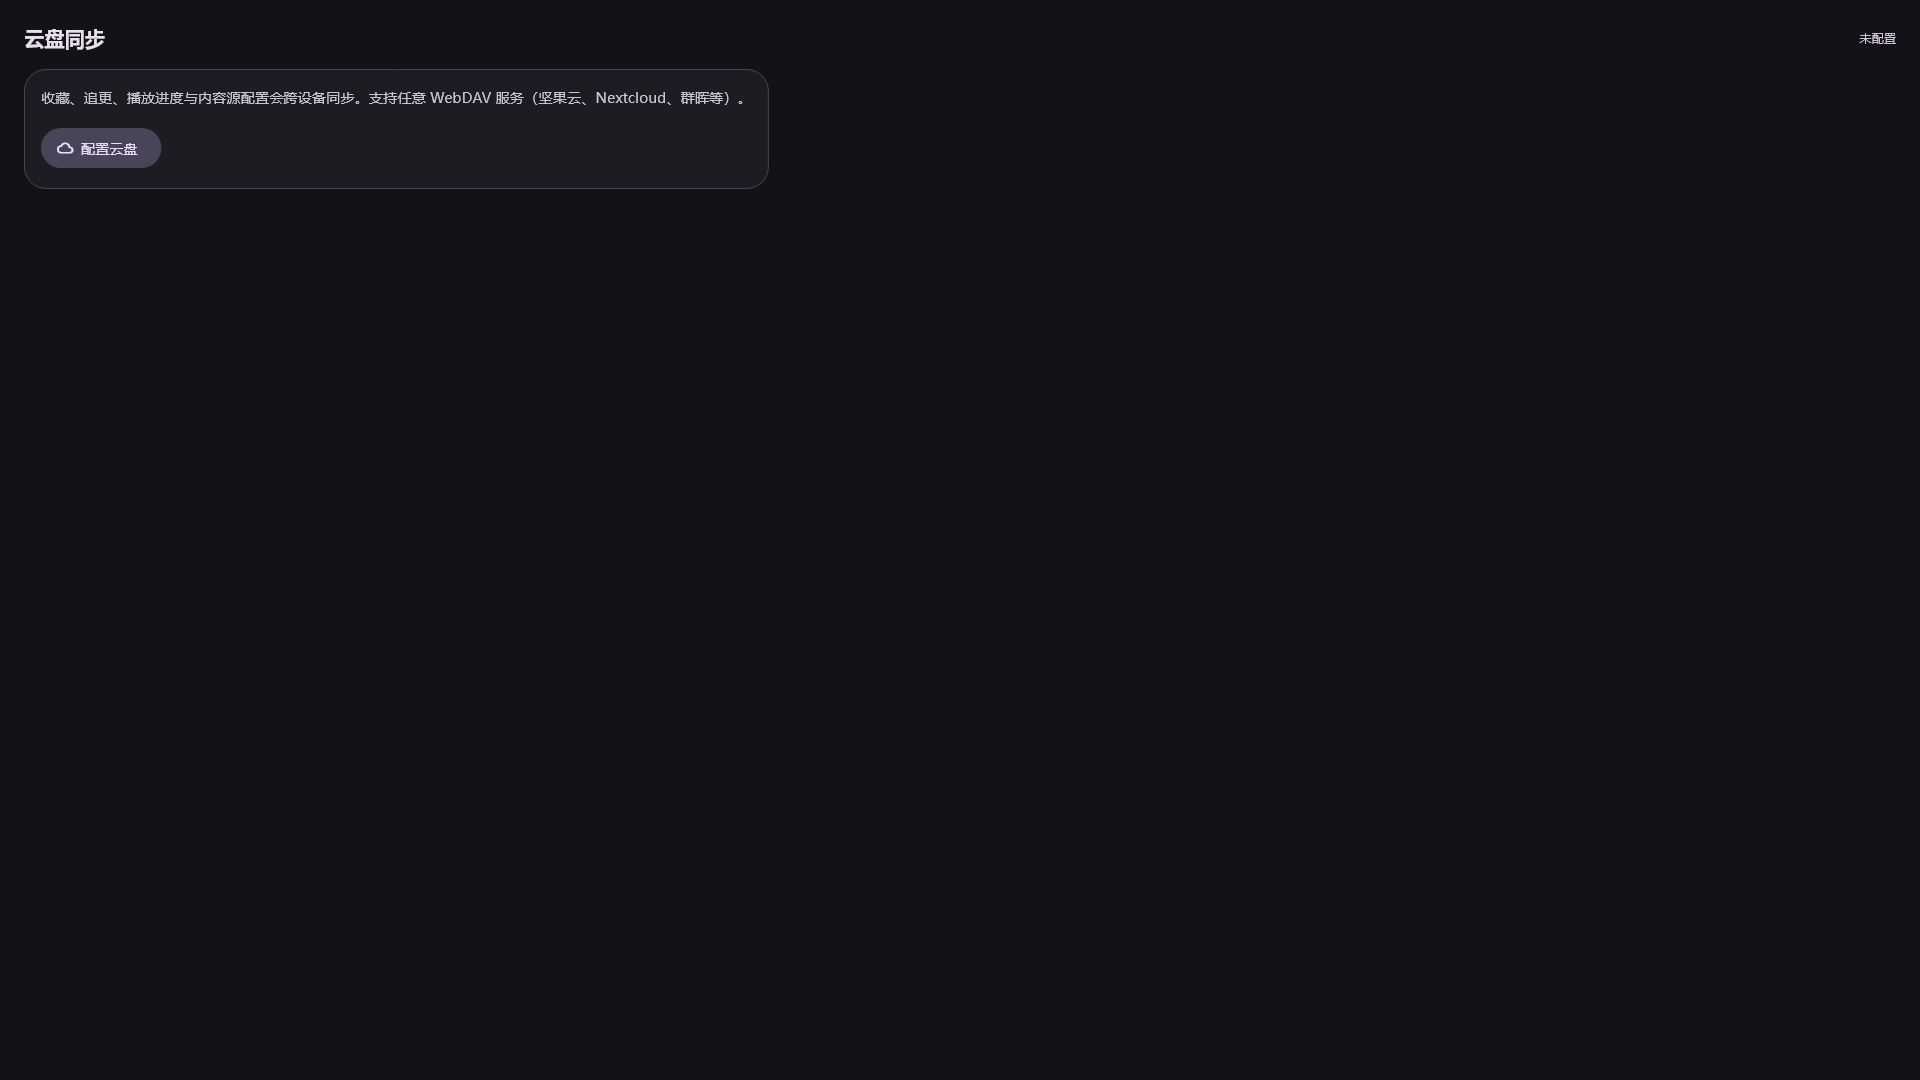
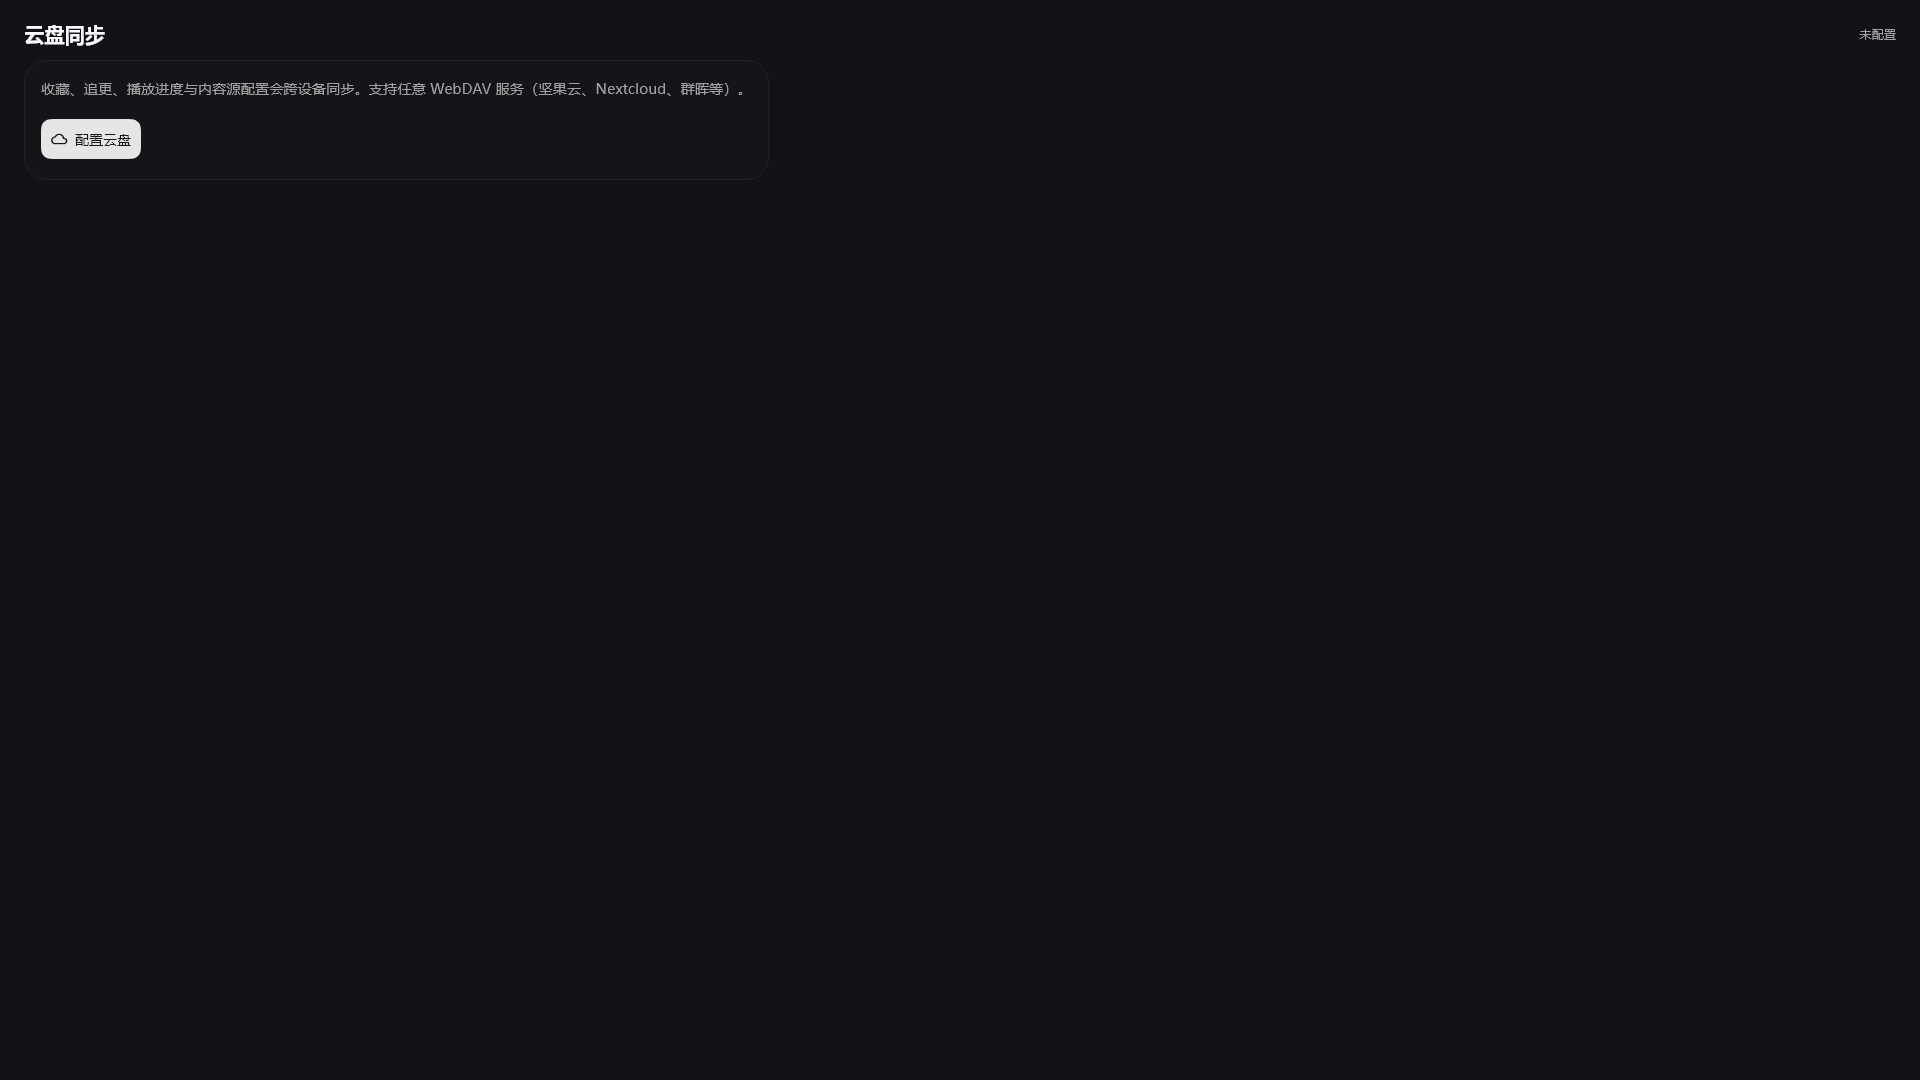
测试：截图改用生产主题 AppTheme.themeFor（原先自造壳，对主题改动是瞎的）
发现：t95 的截图脚手架用 `ThemeData(brightness: dark)` **自造**主题。
铁证是合并 theme agent 的 `feat/ui-unify-theme`（移除 forui + 换色板）前后，
四张 PNG **字节完全相同**（19519 / 16180 / 23064 / 62374）—— 一张没变。
即：主题换掉了我这条测试照样全绿，它对视觉根本不敏感，等于没测。

改法：
- 脚手架改用生产本体的 `AppTheme.themeFor(brightness)`；
- 新增用例「明暗两套主题 × 桌面/手机」都渲染，且截图字节数有下限
  （防止「渲染出一张纯色」也算过）。

合并后实测：light 与 dark 的 PNG **确实不同**（18488 vs 19117 字节）
⇒ 测试对主题改动真的有反应了。

另：已合并 `feat/ui-unify-theme`（4bfe709），零冲突
（与我的提交无文件重叠）。合并后复跑：
- `flutter analyze lib`：0 error；
- t91+t88+t95+theme_regression+theme_invariants+ui_shot+ffi_timeout
  共 82 通过 / 2 跳过 / 0 失败；
- cargo test：仍是那 3 条既有失败，无新增。

截图已更新入库（新增 light/dark × 1440/412 两组，共 8 张）。

Changed region(s): [[0.0, 0.0, 0.375, 0.1833], [0.9688, 0.0306, 1.0, 0.0611]]

diff --git a/test/t95_sync_panel_ui_test.dart b/test/t95_sync_panel_ui_test.dart
@@ -23,6 +23,7 @@
 import 'package:flutter_test/flutter_test.dart';
 import 'package:material_ui/material_ui.dart';
 import 'package:sourin_spike/core/models.dart';
+import 'package:sourin_spike/ui/app_theme.dart';
 import 'package:sourin_spike/ui/widgets/sync_panel.dart';
 
 import 'support/ui_shot.dart';
@@ -99,18 +100,25 @@ void main() {
 
   /// 挂一个 SyncPanel。核心库在测试环境里加载不了，
   /// 面板的三支 `_reload()` 都包了 try/catch ⇒ 照常渲染（见 t91 文件头）。
-  Future<void> pumpPanel(WidgetTester tester) async {
+  /// [brightness] 走**生产本体**的主题（`AppTheme.themeFor`），
+  /// 不再自造 `ThemeData`。
+  ///
+  /// ★ 为什么必须用真的那个：原先这里用 `ThemeData(brightness: dark)` 自搭壳，
+  ///   于是截图与真机的主题**完全不是一回事** —— 主题 agent 换掉 forui、
+  ///   改色板，我这条测试照样全绿（实测：合并前后四张 PNG **字节完全相同**，
+  ///   说明它对主题改动是瞎的）。自造壳的测试等于没测视觉。
+  Future<void> pumpPanel(WidgetTester tester,
+      {Brightness brightness = Brightness.dark}) async {
     await tester.pumpWidget(
       MaterialApp(
         debugShowCheckedModeBanner: false,
-        theme: ThemeData(
-          brightness: Brightness.dark,
-          fontFamily: 'Microsoft YaHei UI',
+        theme: AppTheme.themeFor(brightness),
+        home: Scaffold(
+          body: Padding(
+            padding: const EdgeInsets.all(24),
+            child: SingleChildScrollView(child: const SyncPanel()),
+          ),
         ),
-        home: const Scaffold(body: Padding(
-          padding: EdgeInsets.all(24),
-          child: SingleChildScrollView(child: SyncPanel()),
-        )),
       ),
     );
     await tester.pump();
@@ -195,5 +203,26 @@ void main() {
     expect(tester.takeException(), isNull);
     final f = await saveViewShot(tester, 'sync_panel_tv_unconfigured');
     expect(f.existsSync(), isTrue);
+  });
+
+  testWidgets('⑥ ★ 明暗两套主题下都渲染得出来（面板是二级页，两种都得能用）',
+      (tester) async {
+    for (final b in Brightness.values) {
+      for (final size in const [Size(1440, 900), Size(412, 915)]) {
+        await setShotViewport(tester, size);
+        await pumpPanel(tester, brightness: b);
+        expect(tester.takeException(), isNull,
+            reason: '$b / $size 下不得有异常');
+        expect(find.byType(ErrorWidget), findsNothing, reason: '$b 下不能是 ErrorWidget');
+        expect(find.text('云盘同步'), findsOneWidget, reason: '$b 下块头必须渲染出来');
+
+        final f = await saveViewShot(
+            tester, 'sync_panel_${b.name}_${size.width.toInt()}');
+        expect(f.existsSync(), isTrue);
+        // 像素级自检：真渲染出的图不能是一张纯色（那就等于「什么都没画」）
+        expect(f.lengthSync(), greaterThan(4000),
+            reason: '$b / $size 的截图只有 ${f.lengthSync()} 字节，疑似空图');
+      }
+    }
   });
 }
